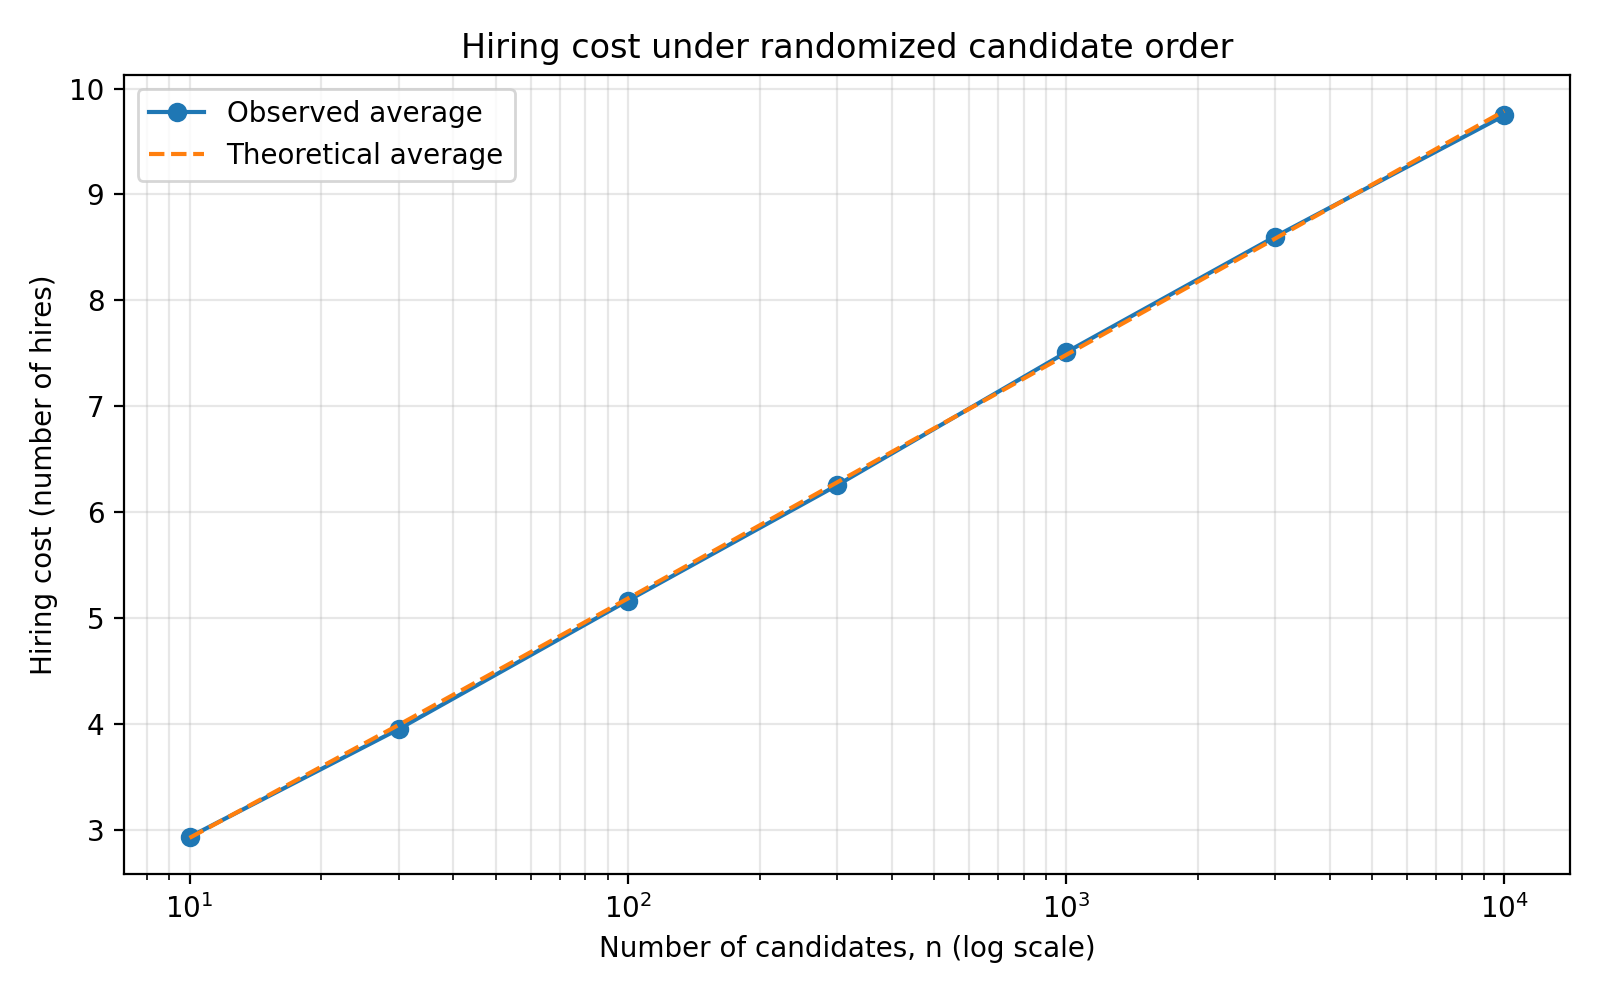
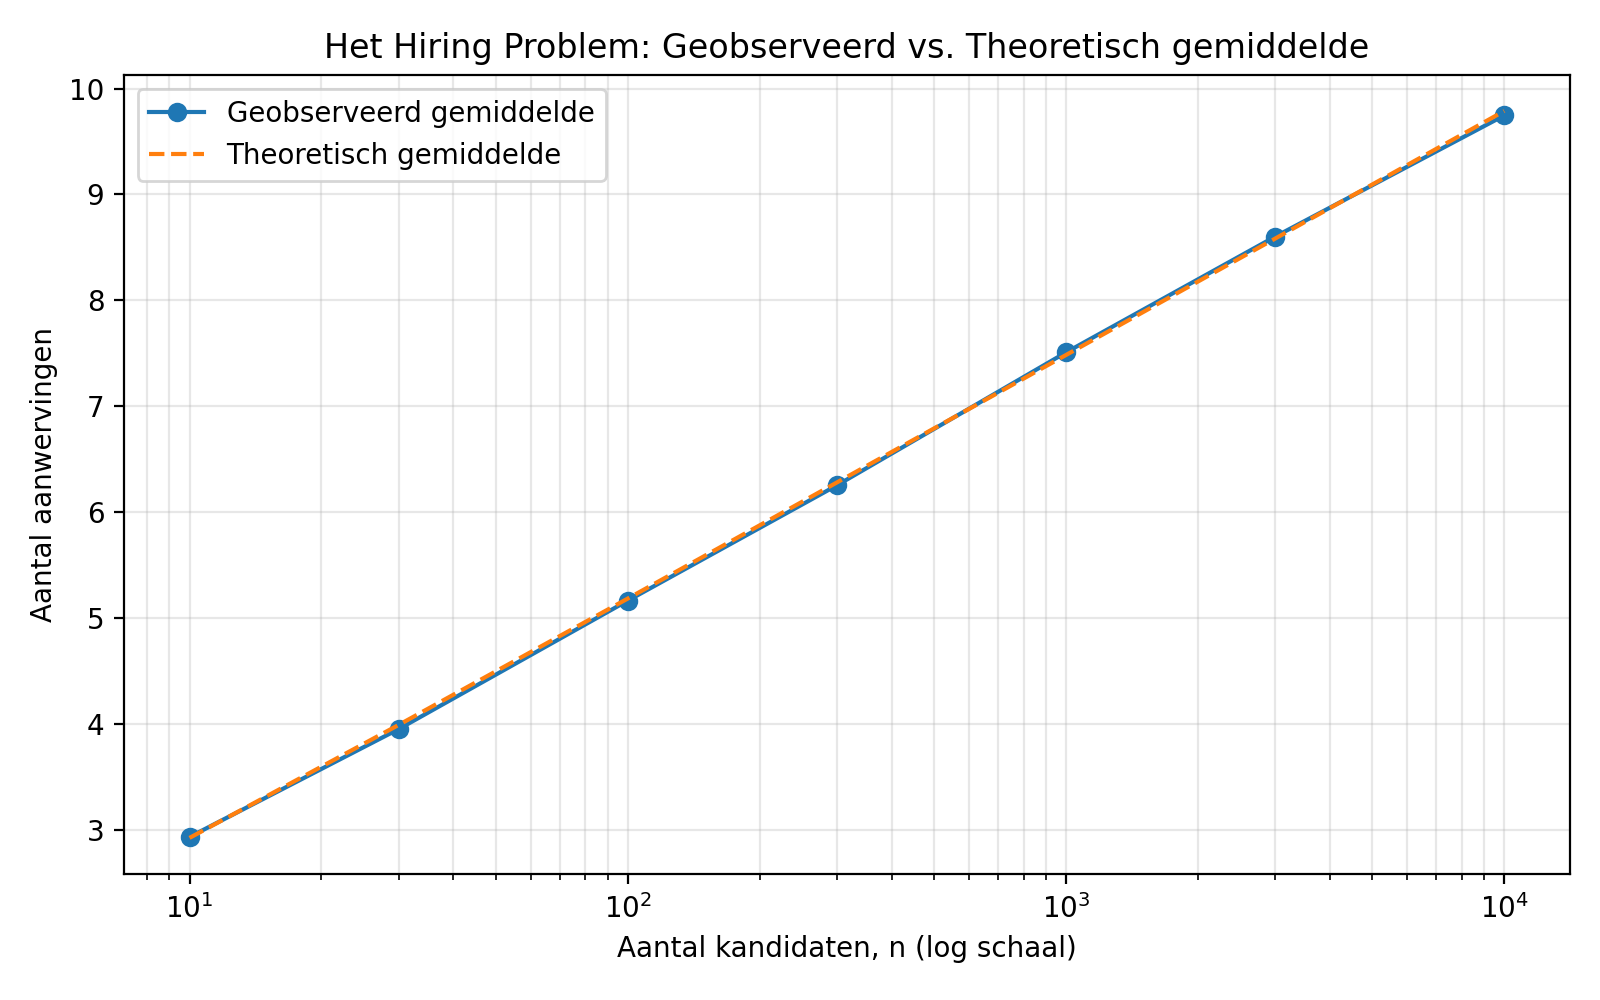
Caption fix

diff --git a/Rand-1/The-Hiring-Problem.py b/Rand-1/The-Hiring-Problem.py
@@ -58,11 +58,11 @@ def run_experiments():
         results.append(
             {
                 "n": n,
-                "trials": trials,
-                "observed_average_hires": observed_average,
-                "theoretical_average_hires": theoretical_average,
-                "best_case_hires": best_hires,
-                "worst_case_hires": worst_hires,
+                "simulaties": trials,
+                "geobserveerd aantal aanwervingen": observed_average,
+                "theoretisch aantal aanwervingen": theoretical_average,
+                "best_case": best_hires,
+                "worst_case": worst_hires,
             }
         )
 
@@ -81,18 +81,18 @@ def run_experiments():
         writer.writerows(results)
 
     candidate_counts = [row["n"] for row in results]
-    observed_average_hires = [row["observed_average_hires"] for row in results]
-    theoretical_average_hires = [row["theoretical_average_hires"] for row in results]
+    observed_average_hires = [row["geobserveerd aantal aanwervingen"] for row in results]
+    theoretical_average_hires = [row["theoretisch aantal aanwervingen"] for row in results]
 
     fig, ax = plt.subplots(figsize=(8, 5))
-    ax.plot(candidate_counts, observed_average_hires, "o-", label="Observed average")
+    ax.plot(candidate_counts, observed_average_hires, "o-", label="Geobserveerd gemiddelde")
     ax.plot(
-        candidate_counts, theoretical_average_hires, "--", label=r"Theoretical average"
+        candidate_counts, theoretical_average_hires, "--", label=r"Theoretisch gemiddelde"
     )
     ax.set_xscale("log")
-    ax.set_xlabel("Number of candidates, n (log scale)")
-    ax.set_ylabel("Hiring cost (number of hires)")
-    ax.set_title("Hiring cost under randomized candidate order")
+    ax.set_xlabel("Aantal kandidaten, n (log schaal)")
+    ax.set_ylabel("Aantal aanwervingen")
+    ax.set_title("Het Hiring Problem: Geobserveerd vs. Theoretisch gemiddelde")
     ax.grid(True, which="both", alpha=0.3)
     ax.legend()
     fig.tight_layout()
